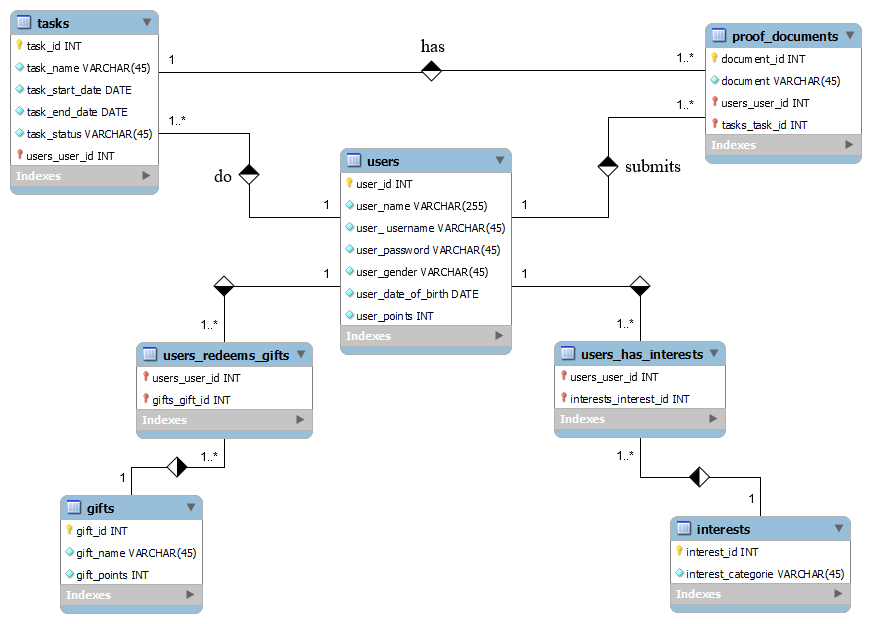
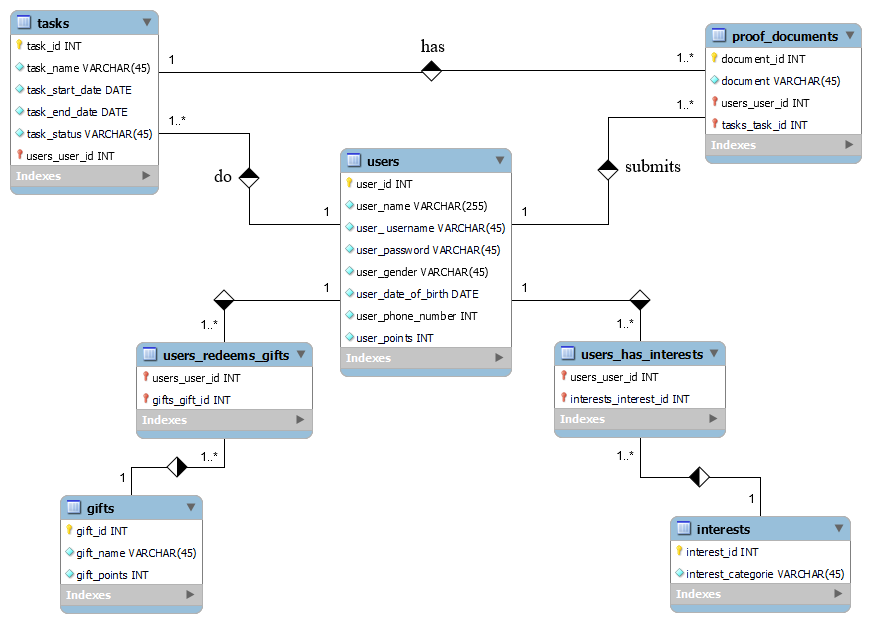
Added an attribute to entity/table users in the database (picture & word document)

diff --git a/Back-end/Sign up.php b/Back-end/Sign up.php
@@ -1,0 +1,16 @@
+<?php
+
+$db_host = "localhost"; 
+$db_user = "root"; 
+$db_password = null; 
+$db_name = "rally_task_db"; // name of the database
+
+
+$mysqli = new mysqli($db_host, $db_user, $db_password, $db_name); // Creating an object of type mysqli and this is how I am connecting to the database
+
+// Checking connection
+if(mysqli_connect_errno()){
+	die("Connection failed!");
+}
+
+?>
